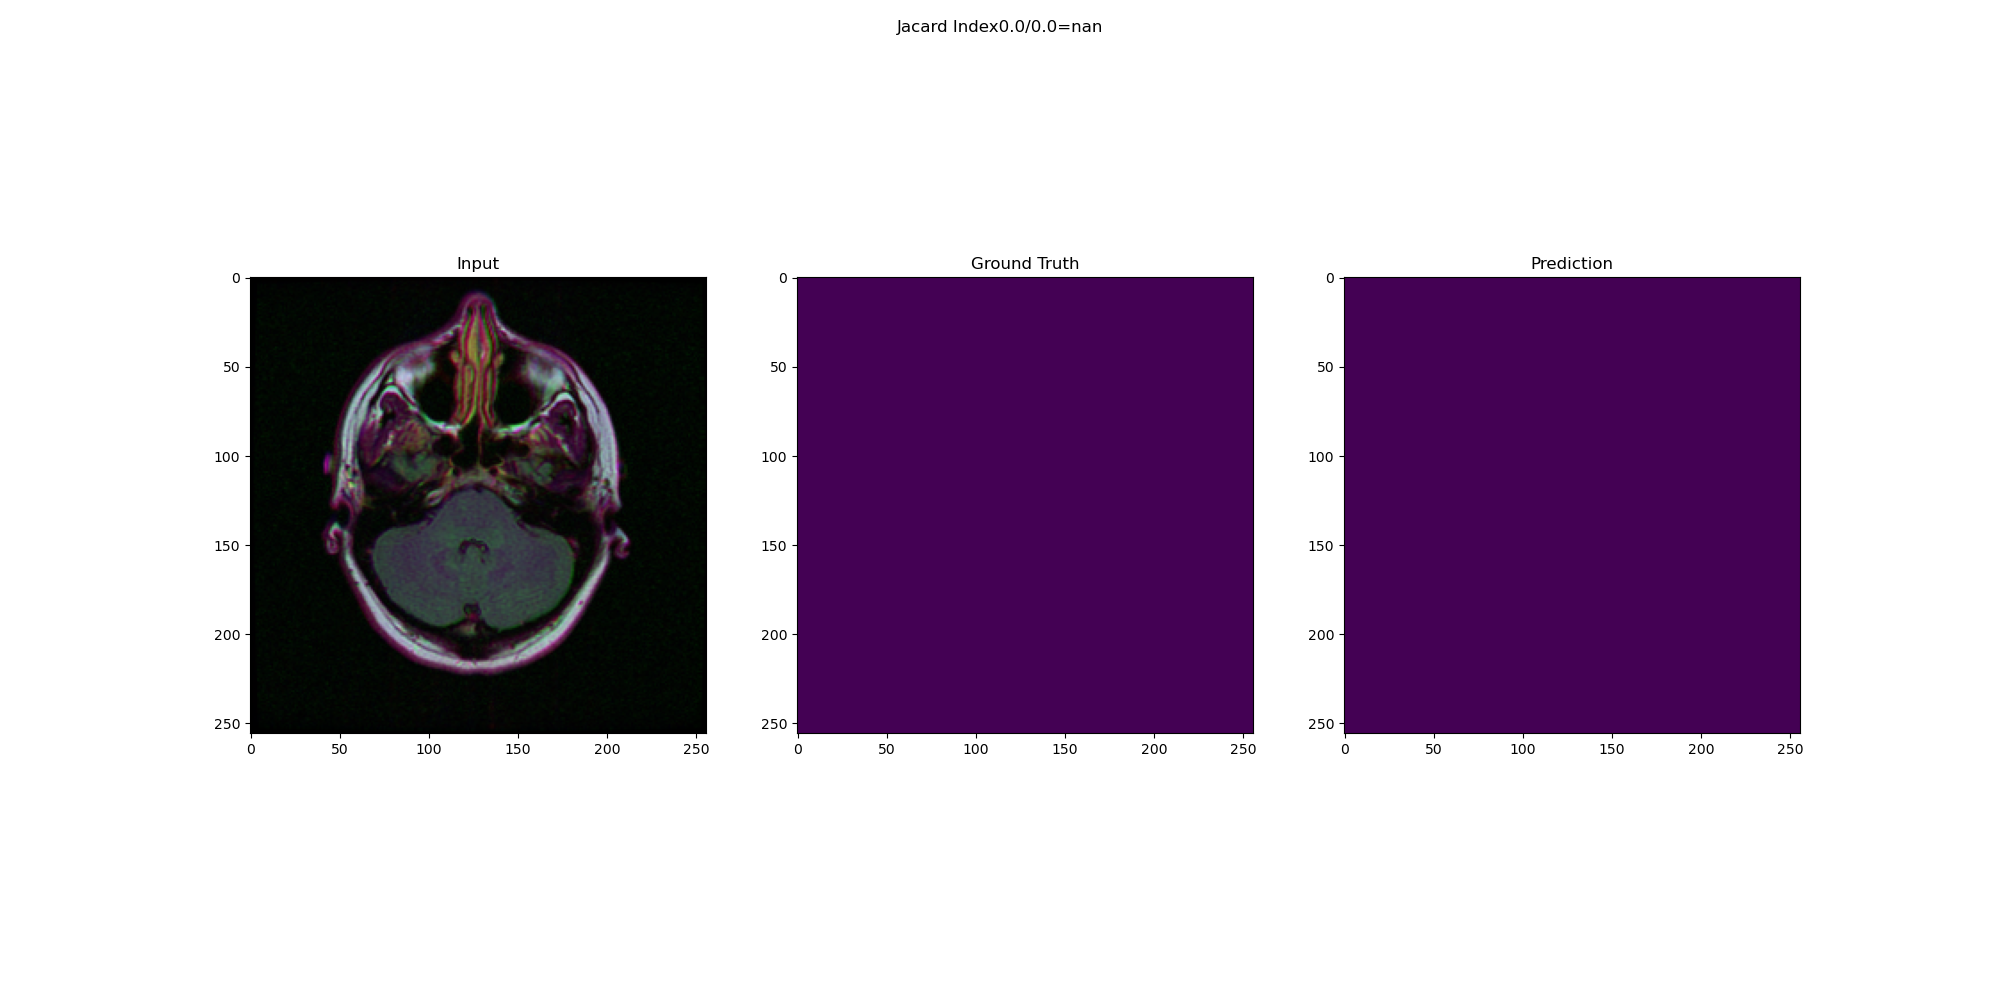
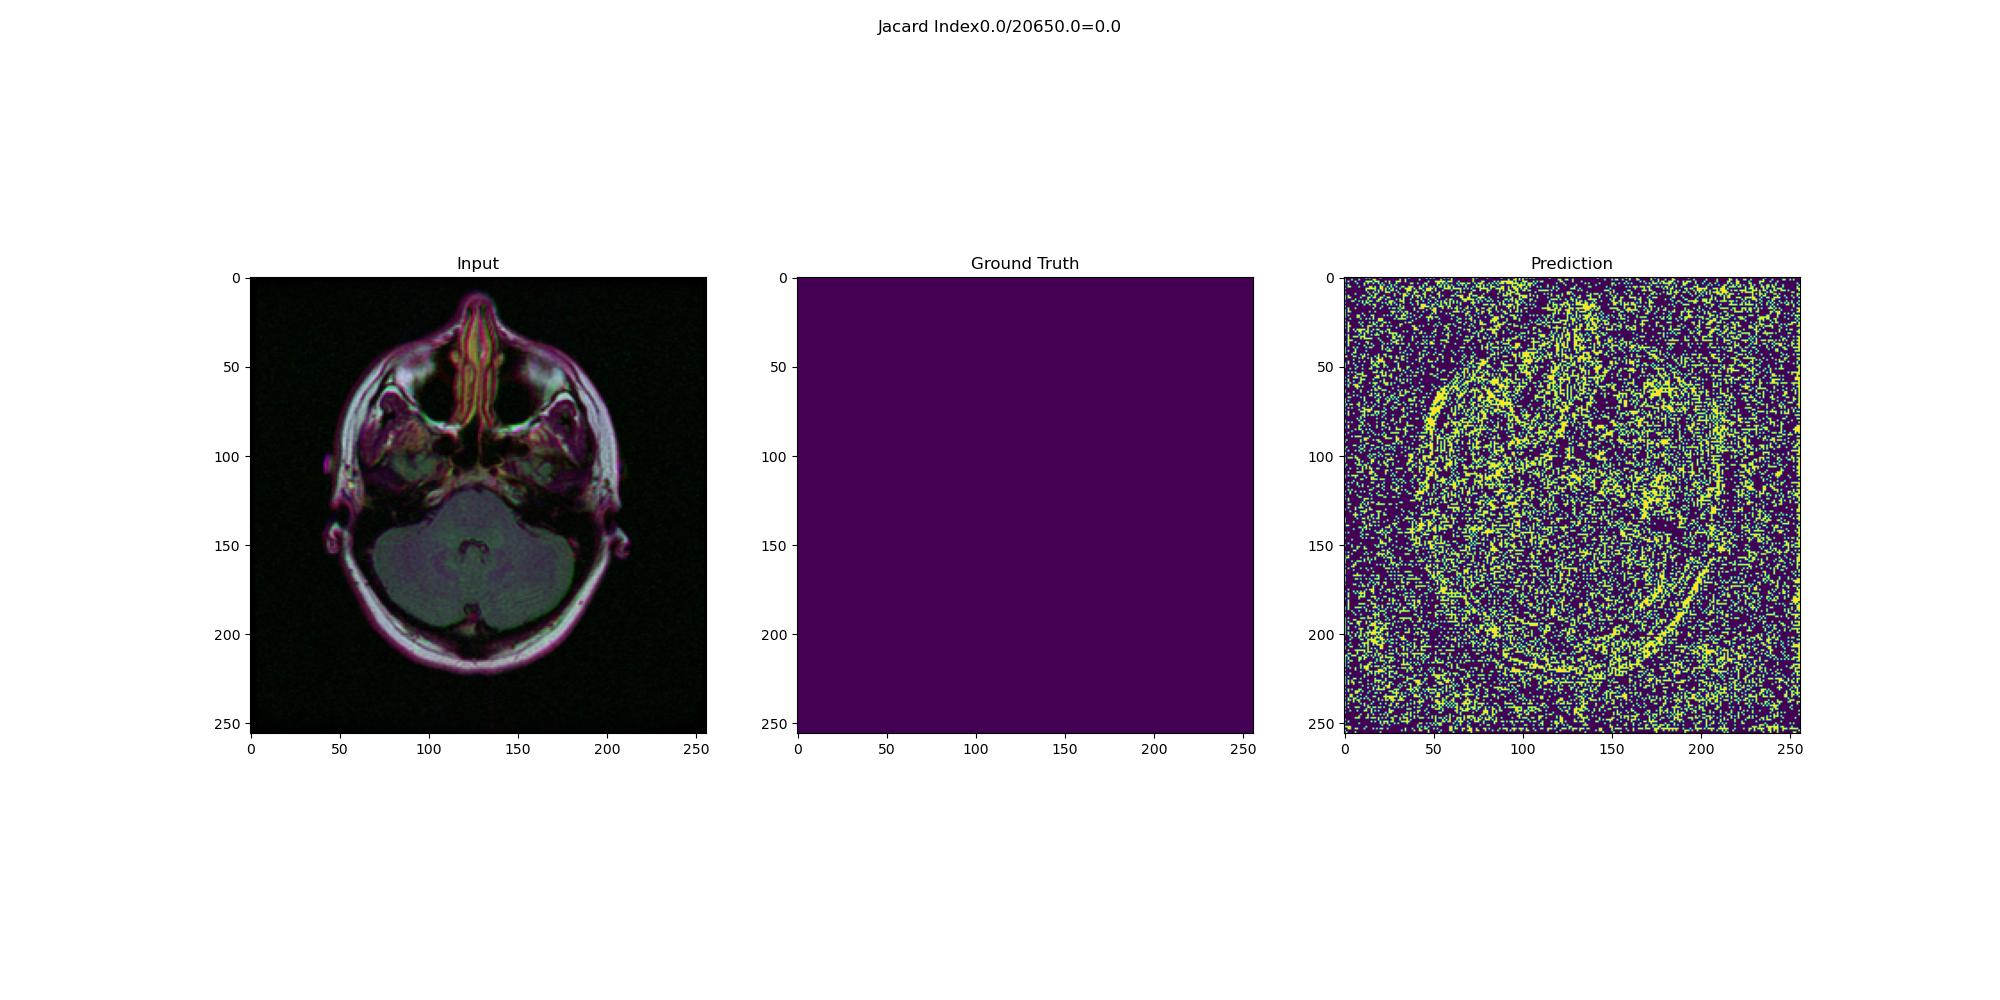
more changes

Changed region(s): [[0.651, 0.279, 0.899, 0.744], [0.434, 0.0, 0.558, 0.031]]

diff --git a/BrainMRI/MultiResUNet/MultiResUNet.py b/BrainMRI/MultiResUNet/MultiResUNet.py
@@ -18,13 +18,10 @@ from tensorflow.keras.metrics import Recall, Precision
 from tqdm import tqdm
 
 
-
-from models import MultiResUnet
-
-
-
 import sys
 sys.path.insert(0, '../../')
+
+from models import MultiResUnet
 
 img_files = glob.glob('../original_img/*.tif')
 msk_files = glob.glob('../ground_truth/*.tif')
@@ -168,10 +165,10 @@ def evaluateModel(model, X_test, Y_test, batchSize):
         dice += (2. * np.sum(intersection) ) / (np.sum(yp_2) + np.sum(y2))
 
         
-        y_true_f = K.flatten(y2)
-        y_pred_f = K.flatten(yp_2)
-        intersection = K.sum(y_true_f * y_pred_f)
-        iou += (intersection + smooth) / (K.sum(y_true_f) + K.sum(y_pred_f) - intersection + smooth)
+        #y_true_f = K.flatten(y2)
+        #y_pred_f = K.flatten(yp_2)
+        #intersection = K.sum(y_true_f * y_pred_f)
+        #iou += (intersection + smooth) / (K.sum(y_true_f) + K.sum(y_pred_f) - intersection + smooth)
 
 
 
@@ -242,7 +239,7 @@ def trainStep(model, X_train, Y_train, X_test, Y_test, epochs, batchSize):
 
 model = MultiResUnet(height=256, width=256, n_channels=3)
 
-model.compile(optimizer=Adam(learning_rate=1e-4),loss='binary_crossentropy',metrics=[dice_coef, jacard, Recall(), Precision(), 'accuracy'])
+model.compile(optimizer=Adam(learning_rate=1e-5),loss='binary_crossentropy',metrics=[dice_coef, jacard, Recall(), Precision(), 'accuracy'])
 
 saveModel(model)
 

diff --git a/BrainMRI/ModifiedUNET/modified_unet_brain.py b/BrainMRI/ModifiedUNET/modified_unet_brain.py
@@ -35,7 +35,7 @@ from tqdm import tqdm
 import sys
 sys.path.insert(0, '../../')
 
-from models import ModifiedUnet
+from models import ModifiedUNet
 
 
 
